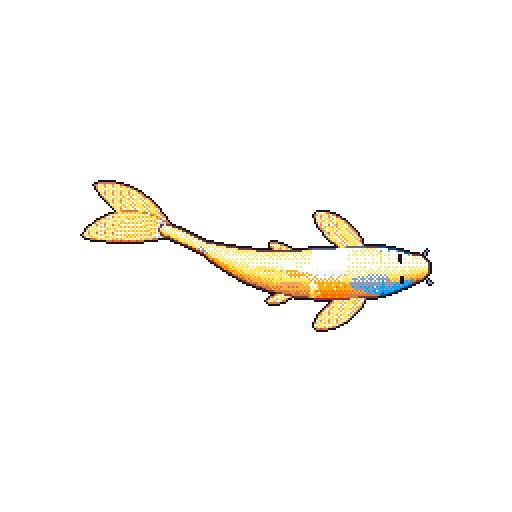
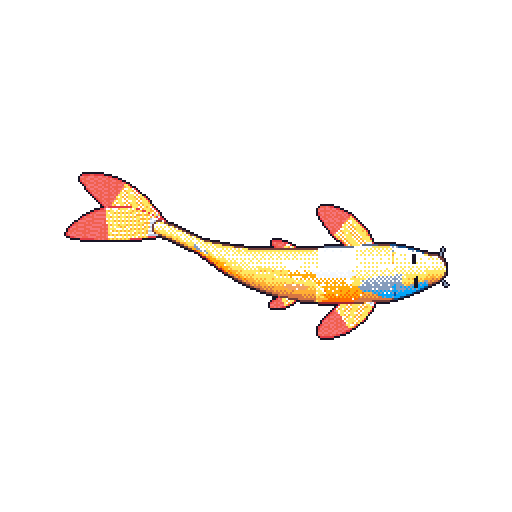
feat(koi): upgrade to full adult koi using GH_PAT with private contributions

Changed region(s): [[0.3438, 0.375, 0.875, 0.6875], [0.125, 0.3125, 0.3438, 0.5]]

diff --git a/koi/preview.html b/koi/preview.html
@@ -16,7 +16,7 @@
 </style>
 </head>
 <body>
-<header class="light"><h1>surface feeding for 2026-11-05, gold body</h1></header>
+<header class="light"><h1>cruise for 2026-11-05, gold body</h1></header>
 <section class="light">
 <h2>GitHub light</h2>
 <div class="images">
